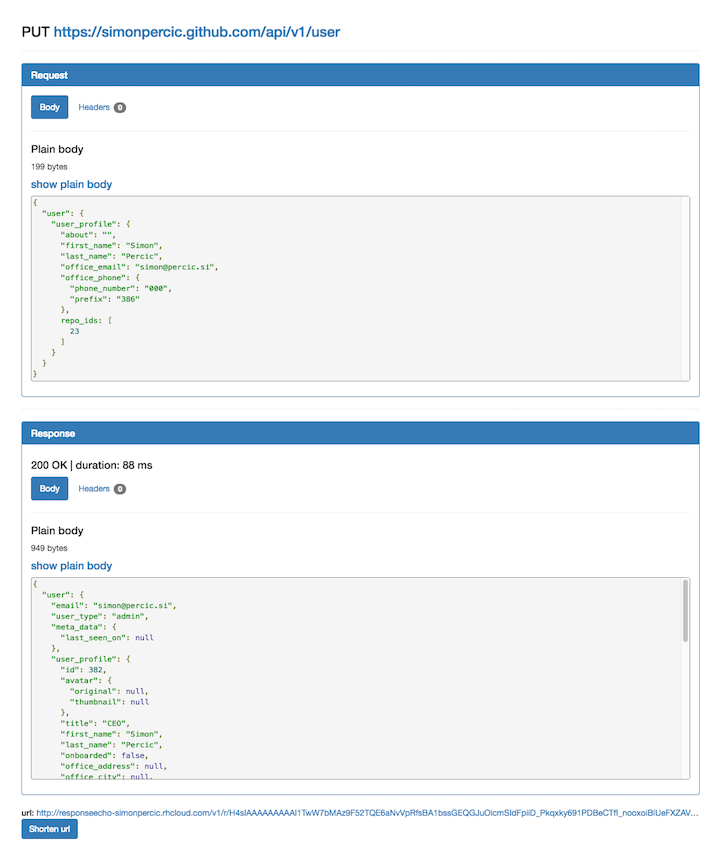
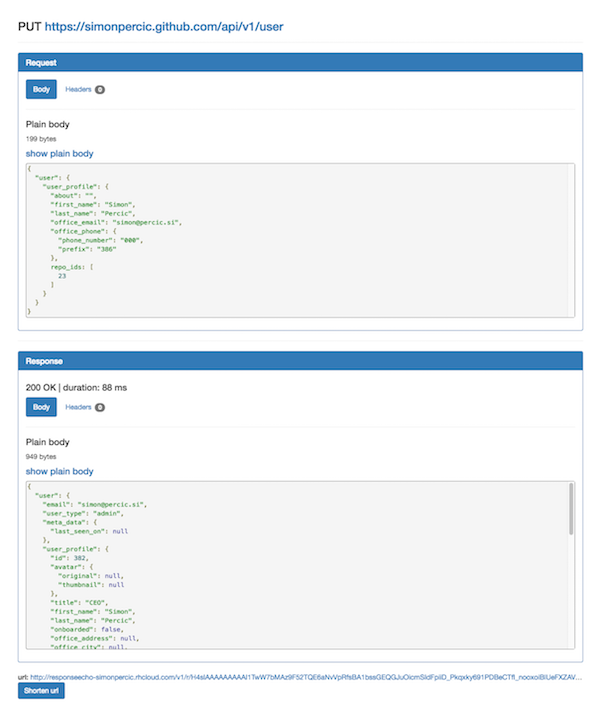
Smaller thumb image

diff --git a/README.md b/README.md
@@ -17,7 +17,7 @@ OkLog writes a clickable link to the Android log with the OkHttp's response info
 
 ![Example](https://raw.githubusercontent.com/simonpercic/OkLog/master/art/oklog.gif)
 
-### Example response info
+#### Example response info
 [![Example response info](https://raw.githubusercontent.com/simonpercic/OkLog/develop/art/oklog-response-thumb.png)](https://raw.githubusercontent.com/simonpercic/OkLog/develop/art/oklog-response.png)
 
 ## How does it work?
